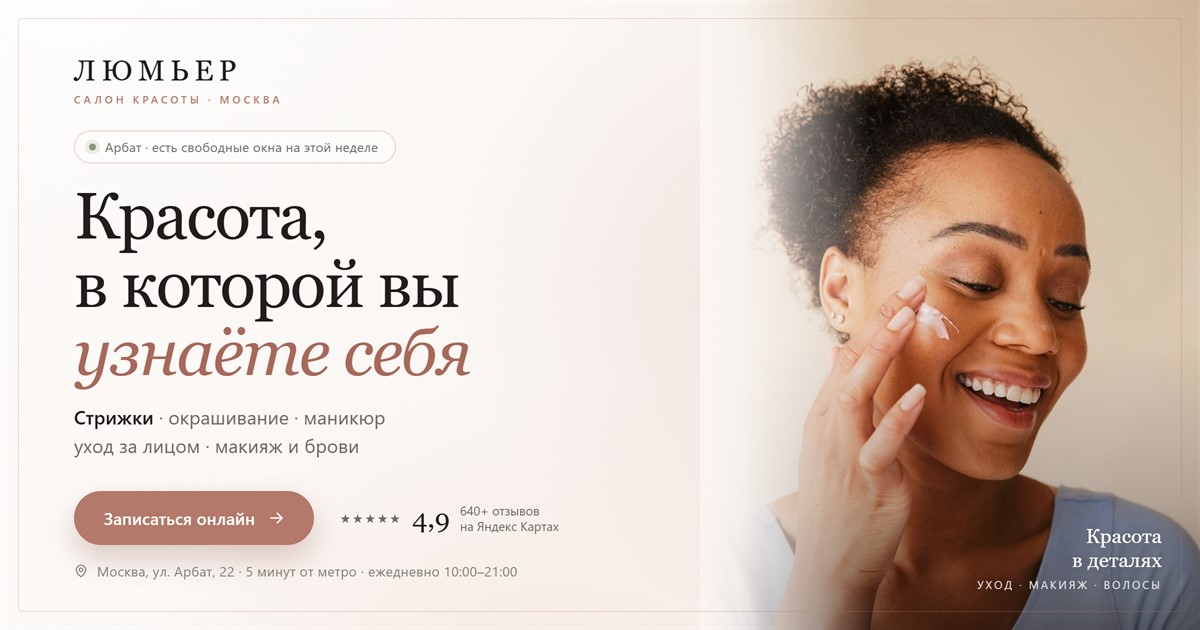
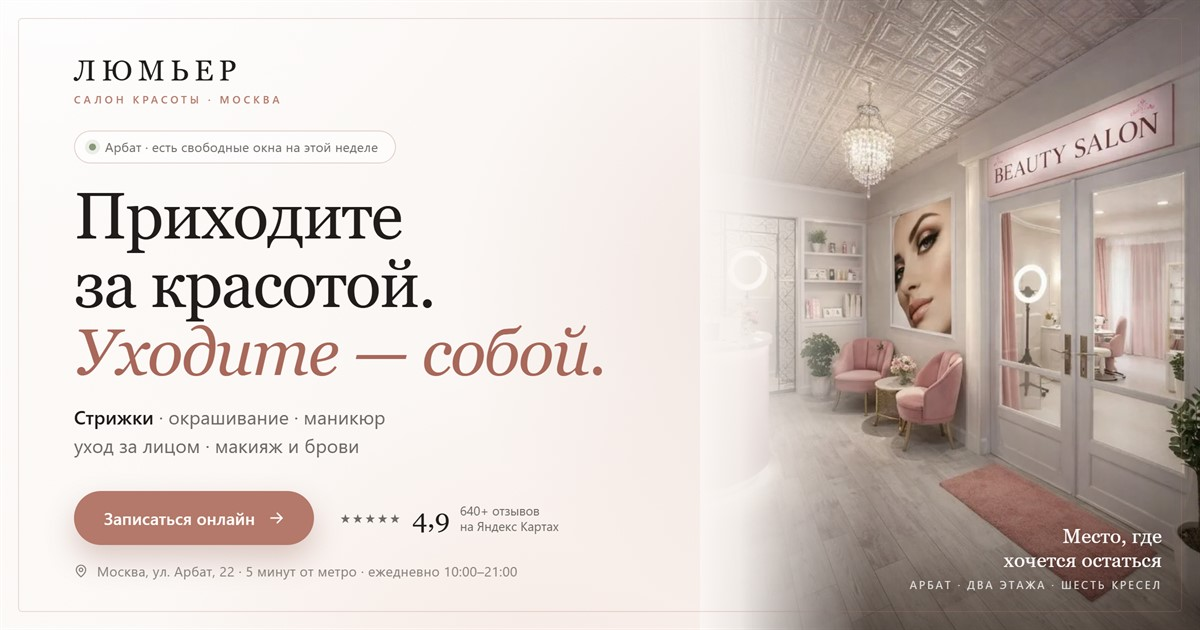
Обновить заголовок сайта и фото в OG-карточке

diff --git a/index.html b/index.html
@@ -10,7 +10,7 @@
   <meta property="og:locale" content="ru_RU">
   <meta property="og:type" content="website">
   <meta property="og:site_name" content="Салон красоты «Люмьер»">
-  <meta property="og:title" content="Красота, в которой вы узнаёте себя — салон «Люмьер»">
+  <meta property="og:title" content="Приходите за красотой — уходите собой | Салон «Люмьер»">
   <meta property="og:description" content="Стрижки, окрашивание, маникюр, уход за лицом и макияж на Арбате. ★ 4,9 · 640+ отзывов. Онлайн-запись за минуту — перезвоним за 15 минут.">
   <meta property="og:url" content="https://tde261.github.io/demo-beauty/">
   <meta property="og:image" content="https://tde261.github.io/demo-beauty/og-image.jpg">
@@ -18,14 +18,14 @@
   <meta property="og:image:type" content="image/jpeg">
   <meta property="og:image:width" content="1200">
   <meta property="og:image:height" content="630">
-  <meta property="og:image:alt" content="Салон красоты «Люмьер» на Арбате: уход за лицом, макияж и стрижки — запись онлайн">
+  <meta property="og:image:alt" content="Салон красоты «Люмьер» на Арбате: приходите за красотой — уходите собой">
 
   <!-- Twitter / X -->
   <meta name="twitter:card" content="summary_large_image">
-  <meta name="twitter:title" content="Красота, в которой вы узнаёте себя — салон «Люмьер»">
+  <meta name="twitter:title" content="Приходите за красотой — уходите собой | Салон «Люмьер»">
   <meta name="twitter:description" content="Стрижки, окрашивание, маникюр, уход за лицом и макияж на Арбате. ★ 4,9 · 640+ отзывов. Онлайн-запись за минуту.">
   <meta name="twitter:image" content="https://tde261.github.io/demo-beauty/og-image.jpg">
-  <meta name="twitter:image:alt" content="Салон красоты «Люмьер» на Арбате — запись онлайн">
+  <meta name="twitter:image:alt" content="Салон красоты «Люмьер» на Арбате — приходите за красотой, уходите собой">
 
   <link rel="canonical" href="https://tde261.github.io/demo-beauty/">
   <meta name="theme-color" content="#fdfbf9">
@@ -108,7 +108,7 @@
 
       <div class="hero-copy">
         <span class="hero-badge"><span class="dot" aria-hidden="true"></span>Москва · Арбат · есть свободные окна на этой неделе</span>
-        <h1>Красота, в которой вы <em>узнаёте себя</em></h1>
+        <h1>Приходите за красотой.<br><em>Уходите — собой.</em></h1>
         <p class="hero-lead">Волосы, ногти, уход за лицом и макияж — в спокойной атмосфере, с вниманием к деталям и без спешки.</p>
         <div class="hero-actions">
           <a class="btn btn-accent" href="#booking">Записаться онлайн</a>

diff --git a/tools/og-card.html b/tools/og-card.html
@@ -217,7 +217,7 @@
     width: 100%;
     height: 100%;
     object-fit: cover;
-    object-position: 54% 32%;
+    object-position: 50% 50%;
   }
 
   /* растворяем левый край фото в фоне */
@@ -274,11 +274,11 @@
   <div class="card">
 
     <div class="photo">
-      <img src="../images/service-face.jpg" alt="">
+      <img src="../images/интерьер2.webp" alt="">
       <div class="photo-fade"></div>
       <div class="photo-note">
-        <b>Красота<br>в деталях</b>
-        <span>уход · макияж · волосы</span>
+        <b>Место, где<br>хочется остаться</b>
+        <span>Арбат · два этажа · шесть кресел</span>
       </div>
     </div>
 
@@ -294,7 +294,7 @@
           Арбат · есть свободные окна на этой неделе
         </div>
 
-        <h1>Красота,<br>в которой вы<br><em>узнаёте себя</em></h1>
+        <h1>Приходите<br>за красотой.<br><em>Уходите — собой.</em></h1>
 
         <p class="services">
           <b>Стрижки</b> · окрашивание · маникюр<br>
